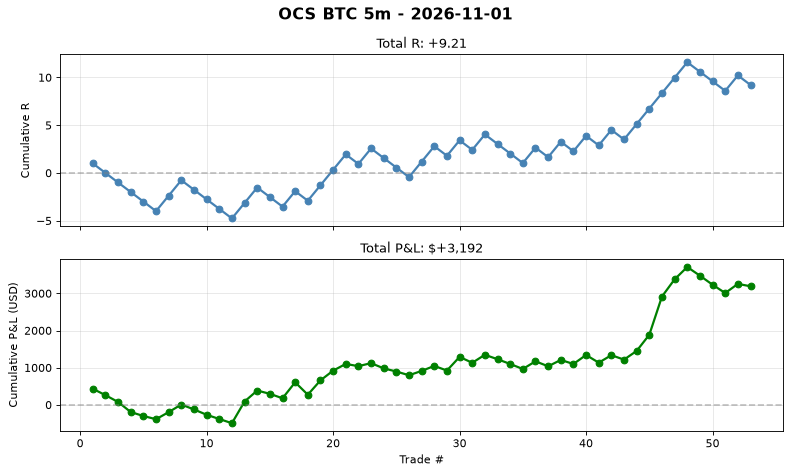
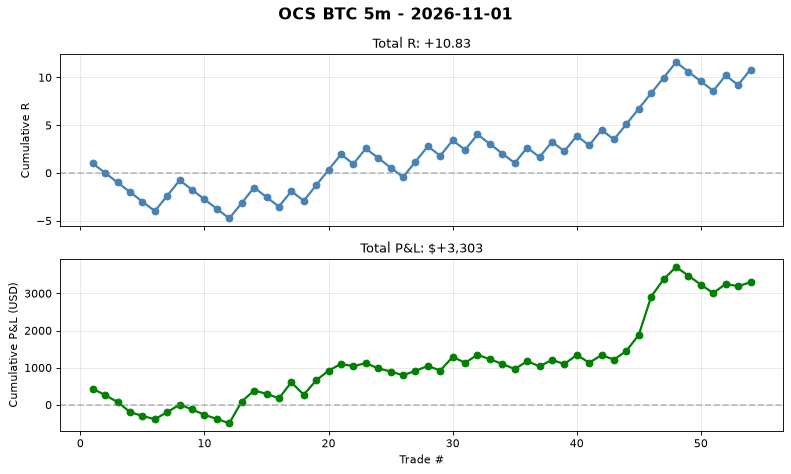
auto(ocs-btc): signal log 2026-10-31T18:01 trades=54

diff --git a/automation/reports/ocs_btc_5m/daily/2026-11-01.md b/automation/reports/ocs_btc_5m/daily/2026-11-01.md
@@ -2,4 +2,4 @@
 
 **No trades today.**
 
-Cumulative stats: 53 trades | WR 45.3% | avg R 0.174
+Cumulative stats: 54 trades | WR 46.3% | avg R 0.201
